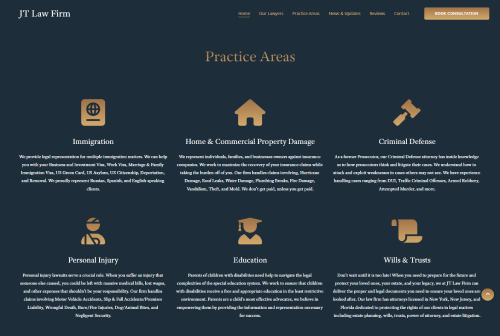
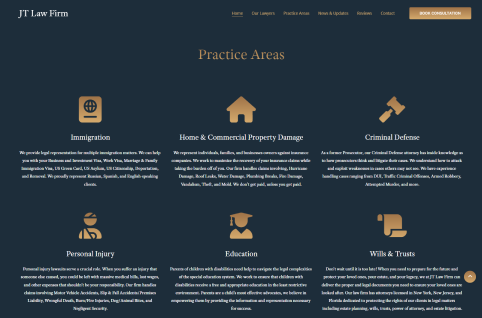
changed all of the large images and smaller images to be not stretched and used tinypng and centerd correctly the smaller images

diff --git a/index.html b/index.html
@@ -100,7 +100,7 @@
                     </div>
                     
                     <div class='smaller-image-container'>
-                        <img src="/assets/Client Website Images/MZMA Therapy/mzma therapy smaller image.jpg" alt="pseyecare small image">
+                        <img src="/assets/Client Website Images/MZMA Therapy/mzma therapy smaller image.png" alt="pseyecare small image">
                    </div>
                 </a>
             </div>
@@ -173,7 +173,7 @@
                     </div>
                     
                     <div class='smaller-image-container'>
-                        <img src="/assets/Client Website Images/NYCADSCO/nycadsco smaller image.png" alt="accidentaward small image">
+                        <img src="/assets/Client Website Images/accident award/accident award smaller image.png" alt="accidentaward small image">
                    </div>
                 </a>
             </div>

diff --git a/stylesheets/scss/style.css b/stylesheets/scss/style.css
@@ -217,7 +217,7 @@ nav .nav-list-container .nav-list li a:hover::after {
 .projects-grid .grid-1 .smaller-image-container {
   position: absolute;
   width: 60%;
-  top: 19%;
+  top: 16%;
   left: -100px;
   -webkit-box-shadow: rgba(0, 0, 0, 0.44) 0px 3px 8px;
           box-shadow: rgba(0, 0, 0, 0.44) 0px 3px 8px;

diff --git a/stylesheets/scss/style.scss b/stylesheets/scss/style.scss
@@ -227,7 +227,7 @@ nav {
         .smaller-image-container {
             position: absolute;
             width: 60%;
-            top: 19%;
+            top: 16%;
             left: -100px;
             box-shadow: rgba(0, 0, 0, 0.44) 0px 3px 8px;
 
